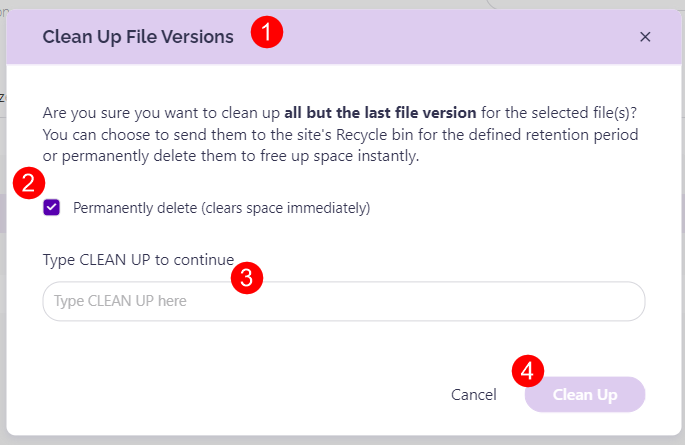
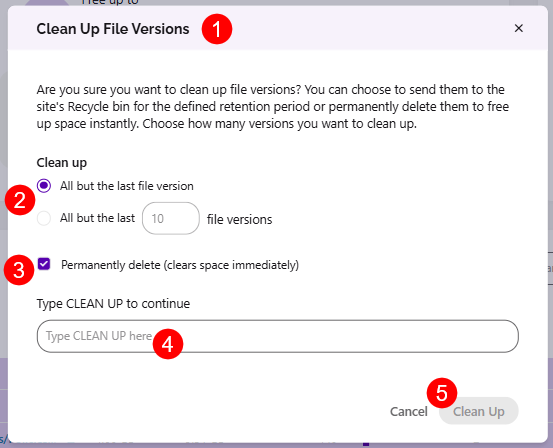
cleanup action changes

Changed region(s): [[0.0, 0.0, 1.0, 1.0], [0.0615, 0.6427, 0.953, 0.9348]]

diff --git a/docs/storage-management/free-up-storage.md b/docs/storage-management/free-up-storage.md
@@ -4,8 +4,6 @@ description: This article explains how to free up your storage on SharePoint sit
 
 # Free Up Storage
 
-
-
 The more your content grows over time, the harder it becomes to manage large amounts of data in your environment. 
 Over time, SharePoint sites might contain duplicate, outdated, or otherwise unnecessary files. Removing these files helps you:
 
@@ -254,7 +252,10 @@ There are three ways to clean up the storage space across your sites.
 
 ![Site Storage Metrics Report- Clean Up File Versions](../../static/img/optimize-storage-site-storage-metrics-report-cleanup.png)
 
-Once you click the **Clean Up button** on the File Version Cleanup tile or the **Clean Up File Versions button** in the Manage section, a **Clean Up File Versions pop-up opens (1)**.
+Once you click the **Clean Up button** on the File Version Cleanup tile or the **Clean Up File Versions button** in the Manage section.
+  * The **Clean Up File Versions dialog modal opens (1)** where you can **choose how many file versions to keep (2)**:
+    * **All but the last file version** - keeps only the most recent version and removes all older ones
+    * **All but the last (enter amount) file versions** - enter the number of most recent versions you want to keep in the box, and older versions are removed
   * To permanently delete the file(s), check the **Permanently delete checkbox (2)**; doing this instantly frees up space for your site.
     * If the checkbox is not selected, the file(s) are sent to the site's Recycle bin for the defined retention period; doing this does not instantly free up space for your site, and the space is only cleared once the file(s) are removed from the recycle bin. 
   * **Type Clean Up (3)** in the available space to proceed.

diff --git a/docs/storage-management/storage-management-overview.md b/docs/storage-management/storage-management-overview.md
@@ -70,7 +70,7 @@ Selecting one or more sites provides the following actions:
     * [For more details on how to set different storage limits, take a look at the Limit Storage Usage article.](../storage-management/limit-storage-usage.md)
   * **Set Version Limit (11)** - lets you set up a limit on the file versions kept per site based on your settings and preference
     * [For more details how to set up versioning limits, take a look at the Storage Versioning Limits article.](../storage-management/versioning-limits.md)
-  * **Clean Up File Versions (12)** - lets you clean up old file versions, several file versions, or all but the last file version
+  * **Clean Up File Versions (12)** - lets you clean up old file versions, several file versions, all but the last file version, or entering a custom amount to keep a select number of the most recent versions
     * [For more details on all of the ways you can complete the Clean Up File action, take a look at the Free Up Storage article.](../storage-management/free-up-storage.md)
   * **Lifecycle Management actions for the workspace (13)**: Archive and Delete
 
